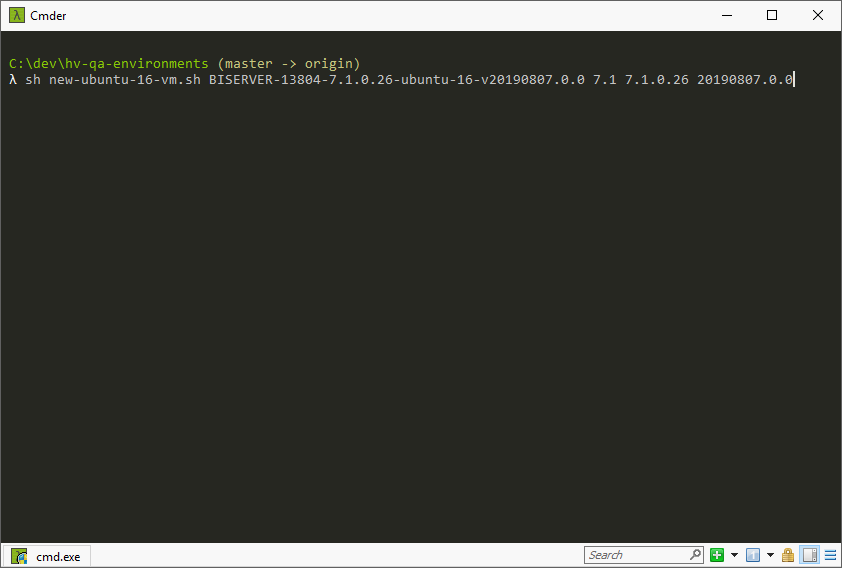
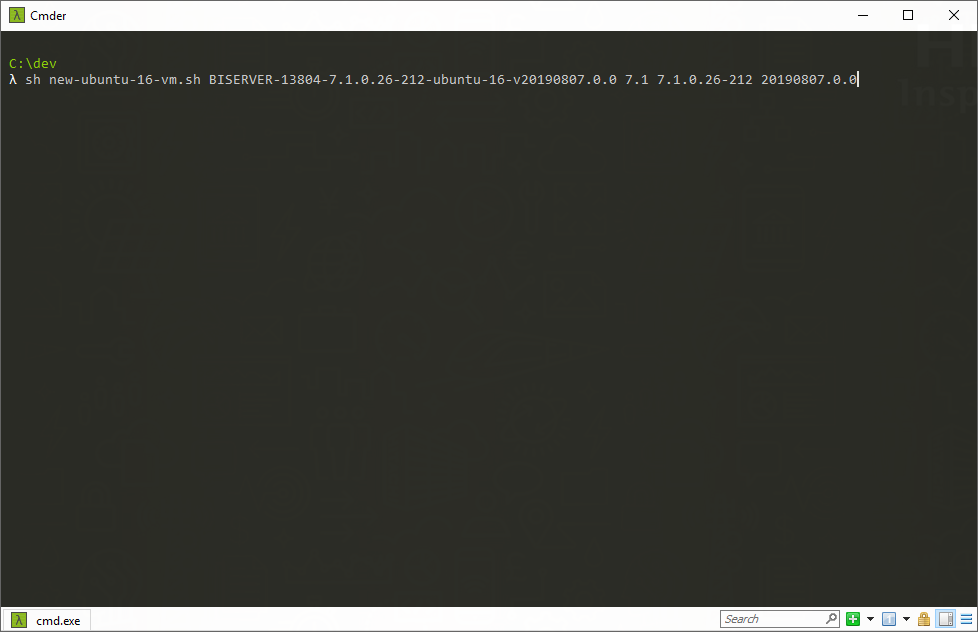
update in documentation to create new ubuntu 16 vm

Changed region(s): [[0.0, 0.0898, 0.9572, 0.1496], [0.0, 0.9577, 1.0, 1.0], [0.0, 0.0, 1.0, 0.0599]]

diff --git a/ubuntu/README.md b/ubuntu/README.md
@@ -2,22 +2,22 @@
 
 ## Create a new Ubuntu 16.04 machine in one step
 
-### New Ubuntu 16.04 machine with 7.1 and 7.1.0.26 SP installed using Ubuntu version 20190807.0.0
+### New Ubuntu 16.04 machine with 7.1 and 7.1.0.26-212 SP installed using Ubuntu version 20190807.0.0
 
 ```shell
-sh new-ubuntu-16-vm.sh BISERVER-13804-7.1.0.26-ubuntu-16-v20190807.0.0 7.1 7.1.0.26 20190807.0.0
+sh new-ubuntu-16-vm.sh BISERVER-13804-7.1.0.26-212-ubuntu-16-v20190807.0.0 7.1 7.1.0.26-212 20190807.0.0
 ```
 
-![New Ubuntu 16.04 machine with 7.1 and 7.1.0.26 SP installed using Ubuntu version 20190807.0.0](screenshots/new-ubuntu-16-vm-01.png)
+![New Ubuntu 16.04 machine with 7.1 and 7.1.0.26-212 SP installed using Ubuntu version 20190807.0.0](screenshots/new-ubuntu-16-vm-01.png)
 
 After this, you will see a new folder with the same name you specified above. Go to that folder and run *vagrant up*
 
-### New Ubuntu 16.04 machine with 7.1 and 7.1.0.26 SP installed using Ubuntu version 20190805.0.0
+### New Ubuntu 16.04 machine with 7.1 and 7.1.0.26-212 SP installed using Ubuntu version 20190805.0.0
 
 ```shell
-sh new-ubuntu-16-vm.sh BISERVER-13804-7.1.0.26-ubuntu-16-v20190805.0.0 7.1 7.1.0.26 20190805.0.0
+sh new-ubuntu-16-vm.sh BISERVER-13804-7.1.0.26-212-ubuntu-16-v20190805.0.0 7.1 7.1.0.26-212 20190805.0.0
 ```
 
-![New Ubuntu 16.04 machine with 7.1 and 7.1.0.26 SP installed using Ubuntu version 20190805.0.0](screenshots/new-ubuntu-16-vm-02.png)
+![New Ubuntu 16.04 machine with 7.1 and 7.1.0.26-212 SP installed using Ubuntu version 20190805.0.0](screenshots/new-ubuntu-16-vm-02.png)
 
 After this, you will see a new folder with the same name you specified above. Go to that folder and run *vagrant up*
